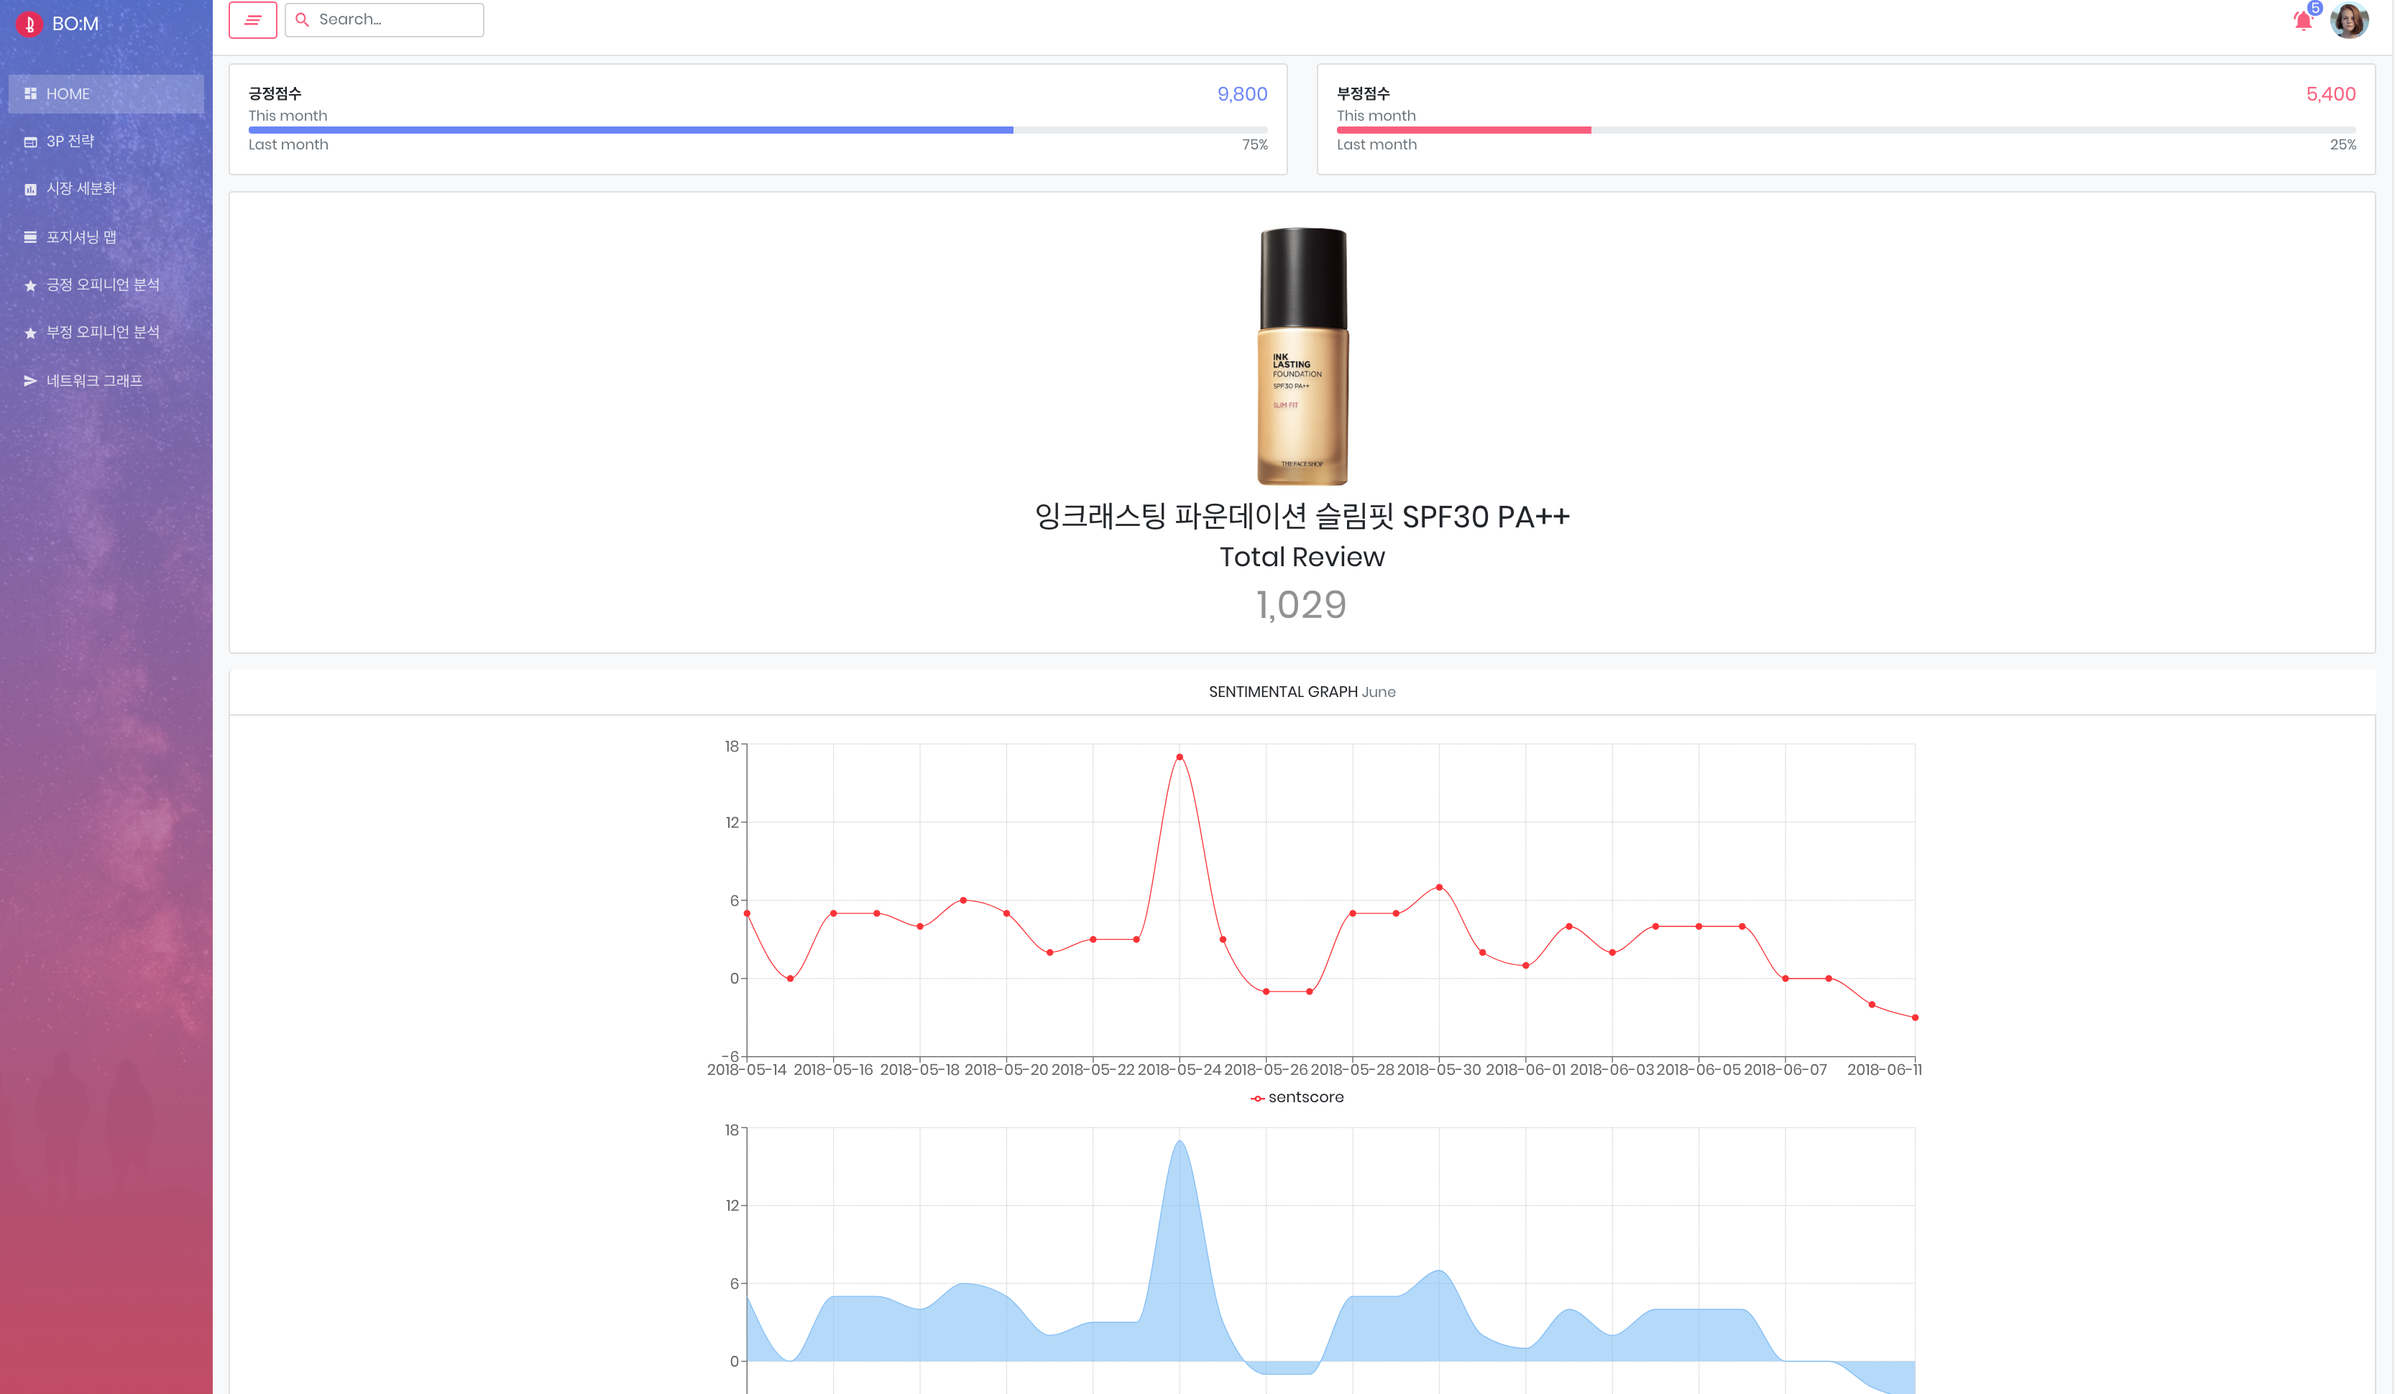
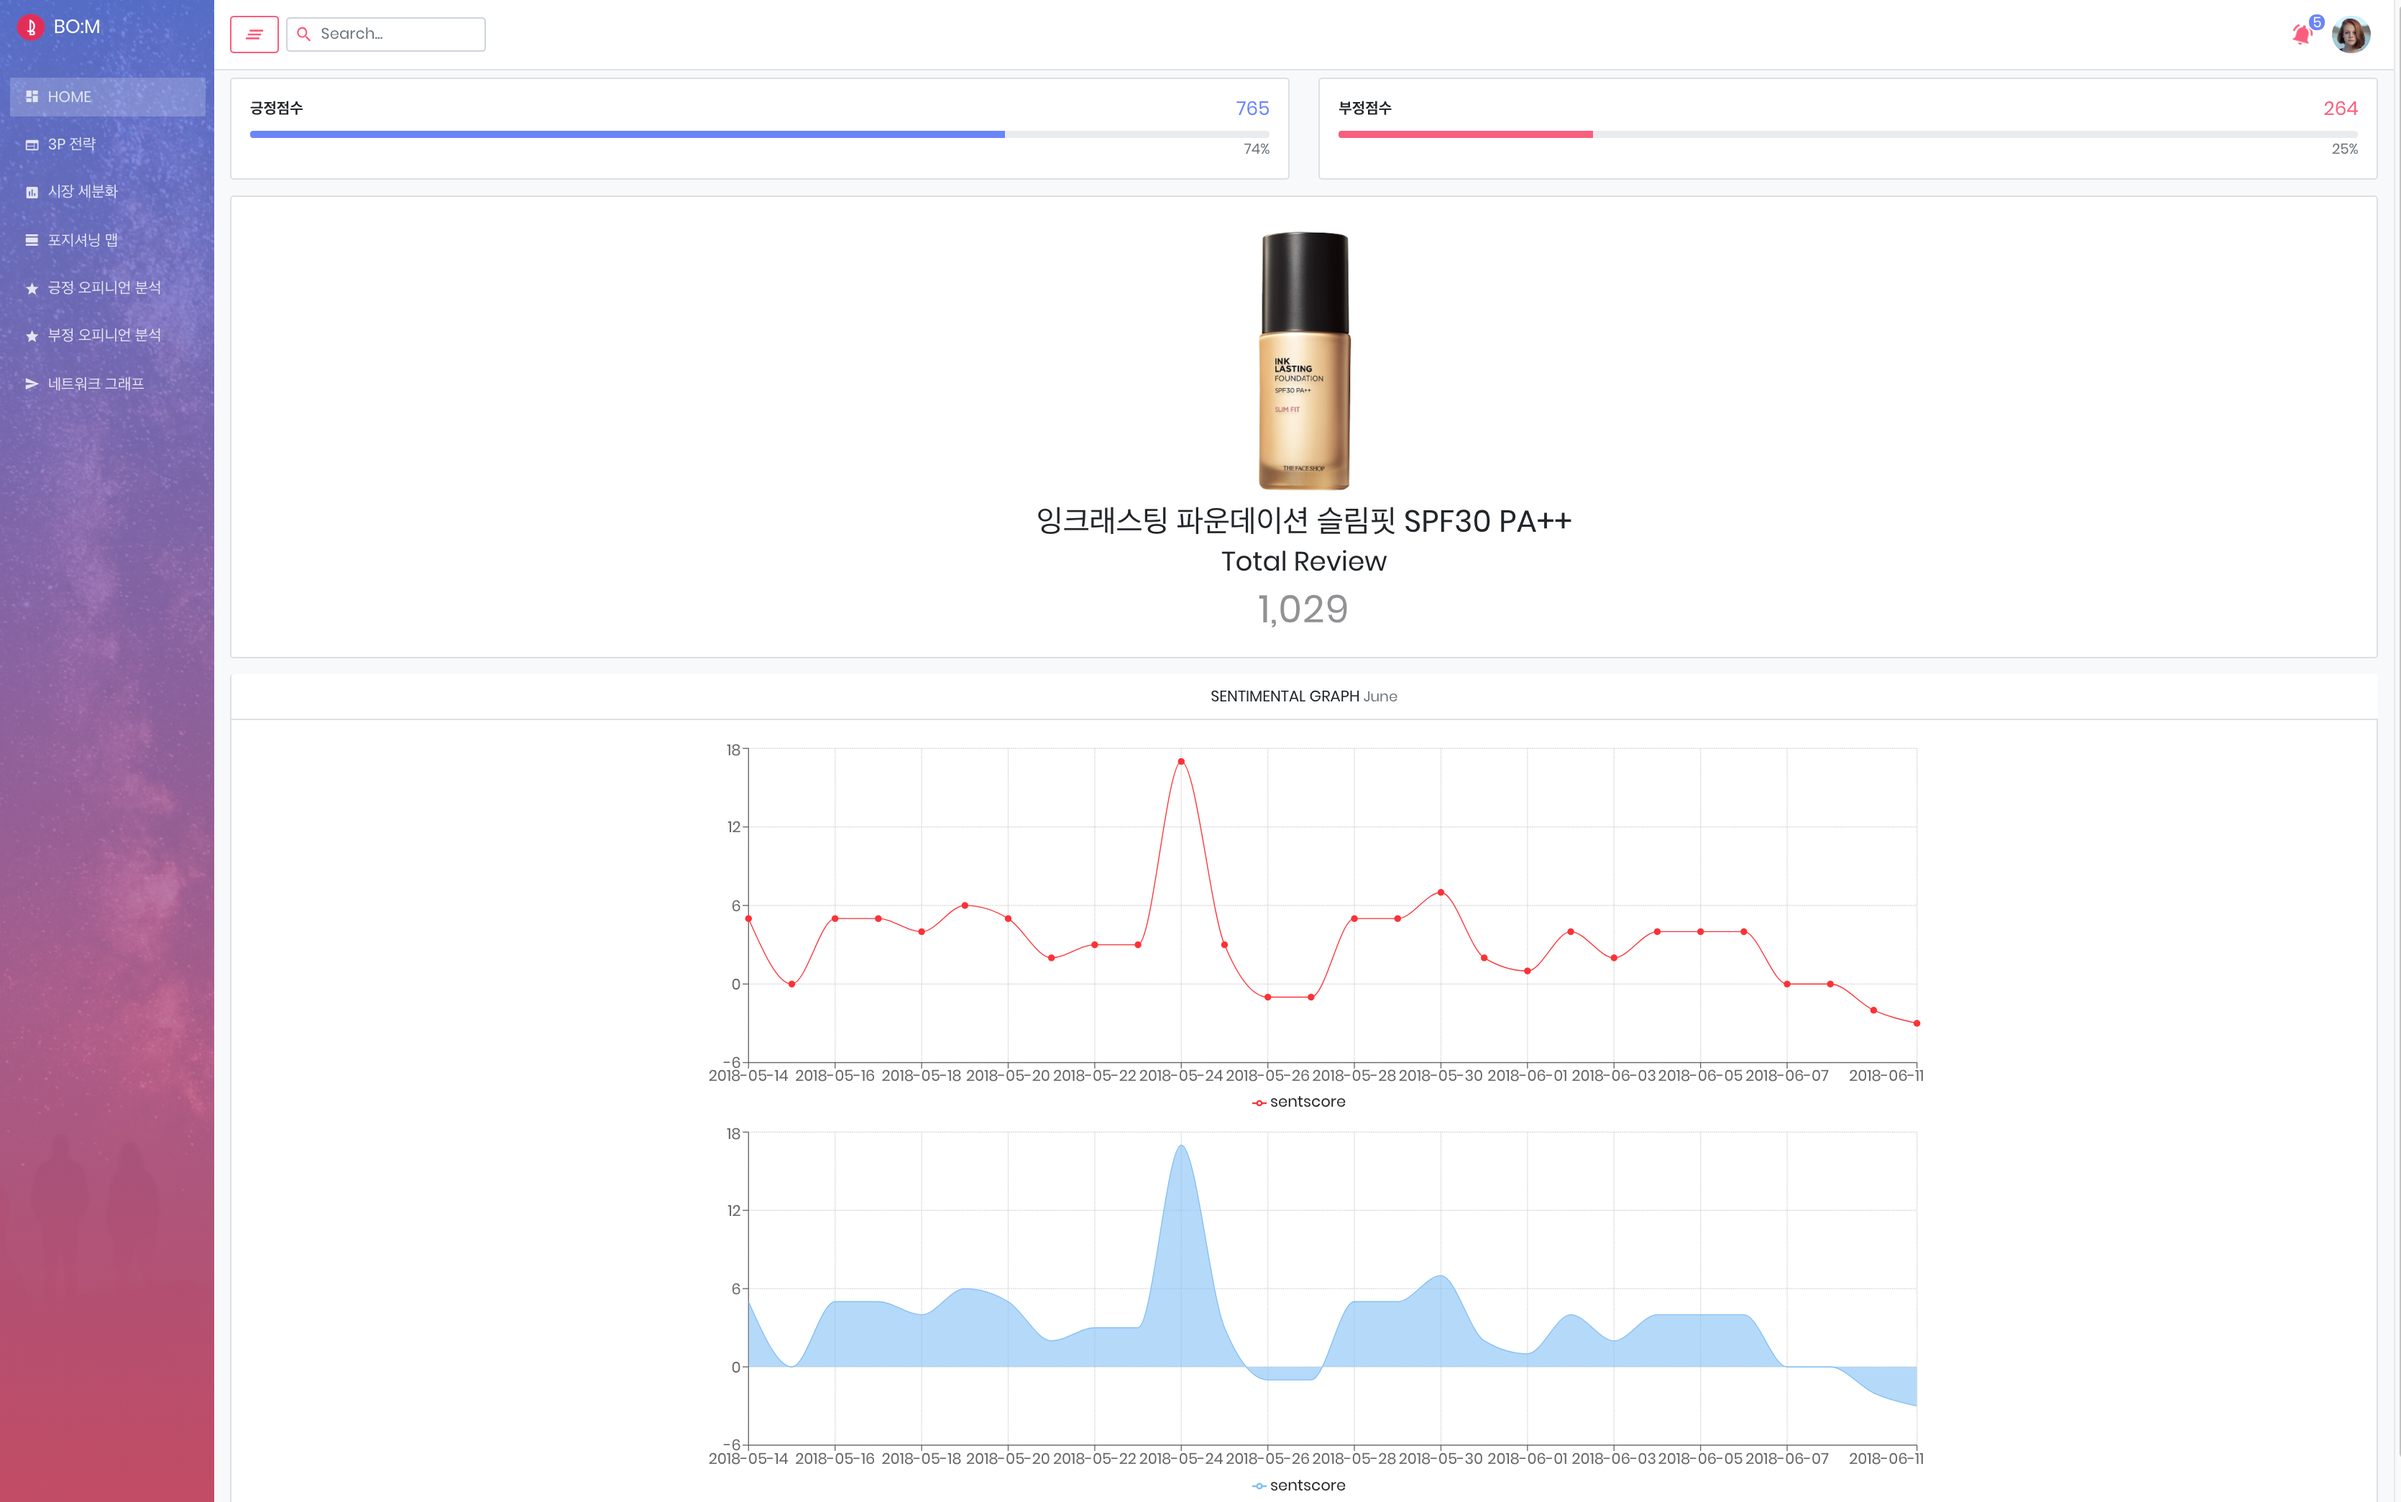
real final

diff --git a/src/pages/network.js b/src/pages/network.js
@@ -10,35 +10,212 @@ import './index.css';
 import { Graph } from 'react-d3-graph';
 
 const data = {
-    nodes: [{ id: '좋다' }, { id: '늘다' }, { id: '쓰다' }, { id: '피부' }, { id: '바르다' }, { id: '보다' }, { id: '커버력' }, { id: '너무' }, { id: '촉촉하다' },
-    { id: '쿠션' }, { id: '제품' }, { id: '파운데이션' }, { id: '진짜' }, { id: '커버' }, { id: '사용' }, { id: '느낌' }, { id: '지속력' }, { id: '사다' },
-    { id: '괜찮다' }, { id: '얼굴' }],
-    links: [{source: '좋다', target: '쿠션'},
- {source: '늘다', target: '쿠션'},
- {source: '쓰다', target: '쿠션'},
- {source: '피부', target: '쿠션'},
- {source: '바르다', target: '쿠션'},
- {source: '보다', target: '쿠션'},
+    nodes: [{id: '좋다'},
+ {id: '늘다'},
+ {id: '쓰다'},
+ {id: '피부'},
+ {id: '바르다'},
+ {id: '보다'},
+ {id: '커버력'},
+ {id: '너무'},
+ {id: '촉촉하다'},
+ {id: '쿠션'},
+ {id: '제품'},
+ {id: '파운데이션'},
+ {id: '진짜'},
+ {id: '커버'},
+ {id: '사용'},
+ {id: '느낌'},
+ {id: '지속력'},
+ {id: '사다'},
+ {id: '괜찮다'},
+ {id: '얼굴'},
+ {id: '화장'},
+ {id: '그렇다'},
+ {id: '정말'},
+ {id: '그냥'},
+ {id: '밝다'},
+ {id: '색상'},
+ {id: '맞다'},
+ {id: '표현'},
+ {id: '예쁘다'},
+ {id: '쓸다'},
+ {id: '건성'},
+ {id: '많이'},
+ {id: '생각'},
+ {id: '발라'},
+ {id: '가격'},
+ {id: '시간'},
+ {id: '수정'},
+ {id: '모공'},
+ {id: '색'},
+ {id: '처음'},
+ {id: '매트'},
+ {id: '짱'},
+ {id: '베이스'},
+ {id: '얇다'},
+ {id: '퍼프'},
+ {id: '추천'},
+ {id: '구매'},
+ {id: '많다'},
+ {id: '딱'},
+ {id: '조금'},
+ {id: '나오다'},
+ {id: '지성'},
+ {id: '건조하다'},
+ {id: '엄청'},
+ {id: '이쁘다'},
+ {id: '21호'},
+ {id: '약간'},
+ {id: '살짝'},
+ {id: '다크닝'},
+ {id: '컨실러'},
+ {id: '기름'},
+ {id: '각질'},
+ {id: '보고'},
+ {id: '발리'},
+ {id: '자연'},
+ {id: '톤'},
+ {id: '처럼'},
+ {id: '인생'},
+ {id: '밀착력'},
+ {id: '템'},
+ {id: '보이다'},
+ {id: '발리다'},
+ {id: '파우더'},
+ {id: '부각'},
+ {id: '건조'},
+ {id: '올라오다'},
+ {id: '마무리'},
+ {id: '완전'},
+ {id: '섞다'},
+ {id: '기초'},
+ {id: '밀착'},
+ {id: '여드름'},
+ {id: '만족'},
+ {id: '지속'},
+ {id: '거의'},
+ {id: '컬러'},
+ {id: '해주다'},
+ {id: '핑크'},
+ {id: '브러쉬'},
+ {id: '제일'},
+ {id: '노랗다'},
+ {id: '아주'},
+ {id: '적당하다'},
+ {id: '더블'},
+ {id: '세미'},
+ {id: '스팅'},
+ {id: '정착'},
+ {id: '에뛰드'},
+ {id: '백화점'},
+ {id: '로드샵'}]
+,
+    links: [{source: '좋다', target: '백화점'},
+ {source: '늘다', target: '백화점'},
+ {source: '쓰다', target: '적당하다'},
+ {source: '피부', target: '백화점'},
+ {source: '바르다', target: '백화점'},
+ {source: '보다', target: '적당하다'},
  {source: '커버력', target: '쿠션'},
- {source: '너무', target: '쿠션'},
- {source: '촉촉하다', target: '쿠션'},
- {source: '쿠션', target: '얼굴'},
- {source: '쿠션', target: '제품'},
- {source: '쿠션', target: '느낌'},
- {source: '쿠션', target: '괜찮다'},
- {source: '쿠션', target: '사다'},
- {source: '쿠션', target: '사용'},
- {source: '쿠션', target: '지속력'},
- {source: '쿠션', target: '커버'},
- {source: '쿠션', target: '진짜'},
- {source: '쿠션', target: '파운데이션'}]
-
-
+ {source: '너무', target: '백화점'},
+ {source: '촉촉하다', target: '백화점'},
+ {source: '쿠션', target: '마무리'},
+ {source: '쿠션', target: '제일'},
+ {source: '쿠션', target: '에뛰드'},
+ {source: '쿠션', target: '완전'},
+ {source: '쿠션', target: '더블'},
+ {source: '쿠션', target: '템'},
+ {source: '쿠션', target: '발리다'},
+ {source: '쿠션', target: '발리'},
+ {source: '제품', target: '여드름'},
+ {source: '파운데이션', target: '적당하다'},
+ {source: '진짜', target: '컬러'},
+ {source: '커버', target: '백화점'},
+ {source: '사용', target: '정착'},
+ {source: '느낌', target: '에뛰드'},
+ {source: '지속력', target: '제일'},
+ {source: '사다', target: '백화점'},
+ {source: '괜찮다', target: '정착'},
+ {source: '얼굴', target: '백화점'},
+ {source: '화장', target: '적당하다'},
+ {source: '그렇다', target: '백화점'},
+ {source: '정말', target: '적당하다'},
+ {source: '그냥', target: '백화점'},
+ {source: '밝다', target: '에뛰드'},
+ {source: '색상', target: '정착'},
+ {source: '맞다', target: '제일'},
+ {source: '표현', target: '정착'},
+ {source: '예쁘다', target: '이쁘다'},
+ {source: '쓸다', target: '적당하다'},
+ {source: '건성', target: '정착'},
+ {source: '많이', target: '백화점'},
+ {source: '생각', target: '올라오다'},
+ {source: '발라', target: '에뛰드'},
+ {source: '가격', target: '스팅'},
+ {source: '시간', target: '적당하다'},
+ {source: '수정', target: '컬러'},
+ {source: '모공', target: '핑크'},
+ {source: '색', target: '에뛰드'},
+ {source: '처음', target: '컬러'},
+ {source: '매트', target: '백화점'},
+ {source: '짱', target: '세미'},
+ {source: '베이스', target: '백화점'},
+ {source: '얇다', target: '정착'},
+ {source: '퍼프', target: '이쁘다'},
+ {source: '추천', target: '정착'},
+ {source: '구매', target: '백화점'},
+ {source: '많다', target: '브러쉬'},
+ {source: '딱', target: '에뛰드'},
+ {source: '조금', target: '정착'},
+ {source: '나오다', target: '백화점'},
+ {source: '지성', target: '에뛰드'},
+ {source: '건조하다', target: '제일'},
+ {source: '엄청', target: '브러쉬'},
+ {source: '이쁘다', target: '적당하다'},
+ {source: '이쁘다', target: '컨실러'},
+ {source: '이쁘다', target: '거의'},
+ {source: '이쁘다', target: '건조'},
+ {source: '이쁘다', target: '밀착력'},
+ {source: '21호', target: '백화점'},
+ {source: '약간', target: '제일'},
+ {source: '살짝', target: '정착'},
+ {source: '다크닝', target: '에뛰드'},
+ {source: '기름', target: '백화점'},
+ {source: '각질', target: '컬러'},
+ {source: '각질', target: '제일'},
+ {source: '각질', target: '밀착'},
+ {source: '보고', target: '에뛰드'},
+ {source: '자연', target: '기초'},
+ {source: '톤', target: '마무리'},
+ {source: '처럼', target: '거의'},
+ {source: '인생', target: '제일'},
+ {source: '인생', target: '보이다'},
+ {source: '파우더', target: '핑크'},
+ {source: '부각', target: '에뛰드'},
+ {source: '올라오다', target: '아주'},
+ {source: '마무리', target: '여드름'},
+ {source: '섞다', target: '백화점'},
+ {source: '기초', target: '여드름'},
+ {source: '여드름', target: '로드샵'},
+ {source: '만족', target: '정착'},
+ {source: '지속', target: '제일'},
+ {source: '해주다', target: '적당하다'},
+ {source: '핑크', target: '정착'},
+ {source: '브러쉬', target: '정착'},
+ {source: '브러쉬', target: '에뛰드'},
+ {source: '제일', target: '아주'},
+ {source: '노랗다', target: '백화점'},
+ {source: '적당하다', target: '백화점'},
+ {source: '적당하다', target: '스팅'},
+ {source: '세미', target: '에뛰드'},
+ {source: '에뛰드', target: '백화점'}]
 };
+
 const myConfig = {
     nodeHighlightBehavior: true,
     height: 1000,
-    width: 1000,
+    width: 1200,
     padding: 200,
     node: {
         color: 'lightblue',

diff --git a/src/pages/homePage.js b/src/pages/homePage.js
@@ -109,12 +109,10 @@ class homePage extends React.Component {
       <Col >
         <NumberWidget
           title="긍정점수"
-          subtitle="This month"
-          number="9,800"
+          number="765"
           color="primary"
           progress={{
-            value: 75,
-            label: 'Last month',
+            value: 74
           }}
         />
       </Col>
@@ -122,12 +120,10 @@ class homePage extends React.Component {
       <Col >
         <NumberWidget
           title="부정점수"
-          subtitle="This month"
-          number="5,400"
+          number="264"
           color="secondary"
           progress={{
-            value: 25,
-            label: 'Last month',
+            value: 25
           }}
         />
       </Col>
